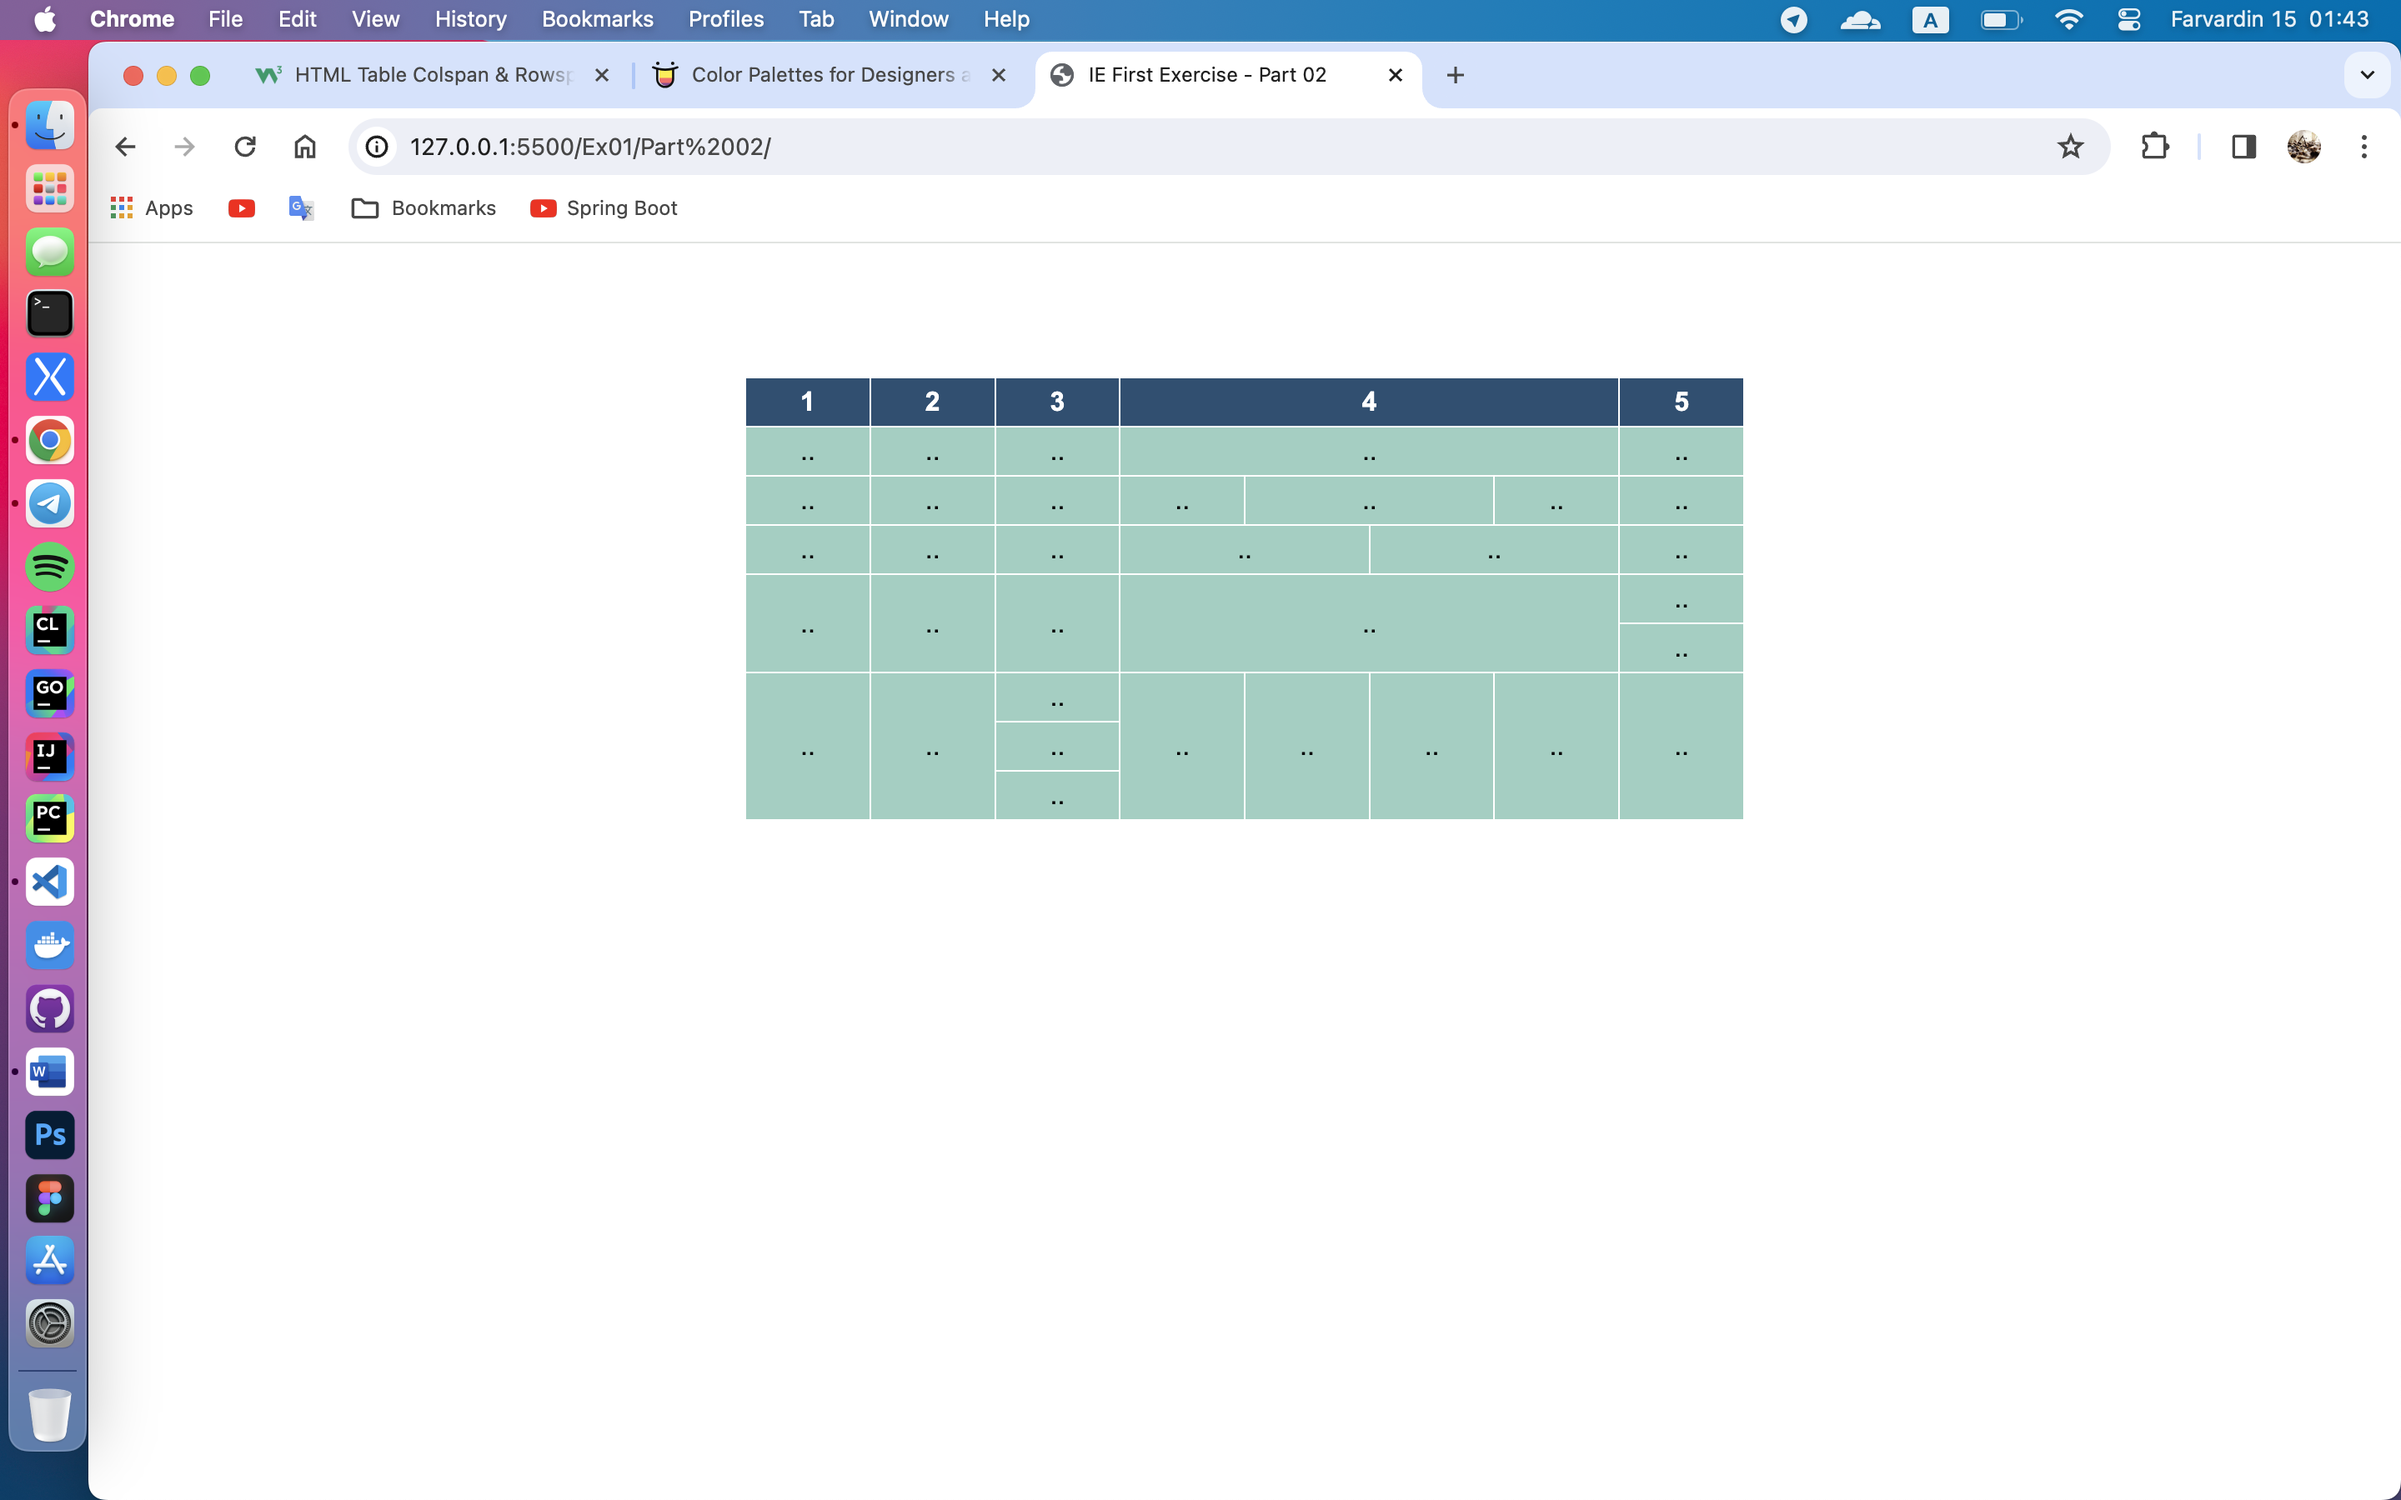
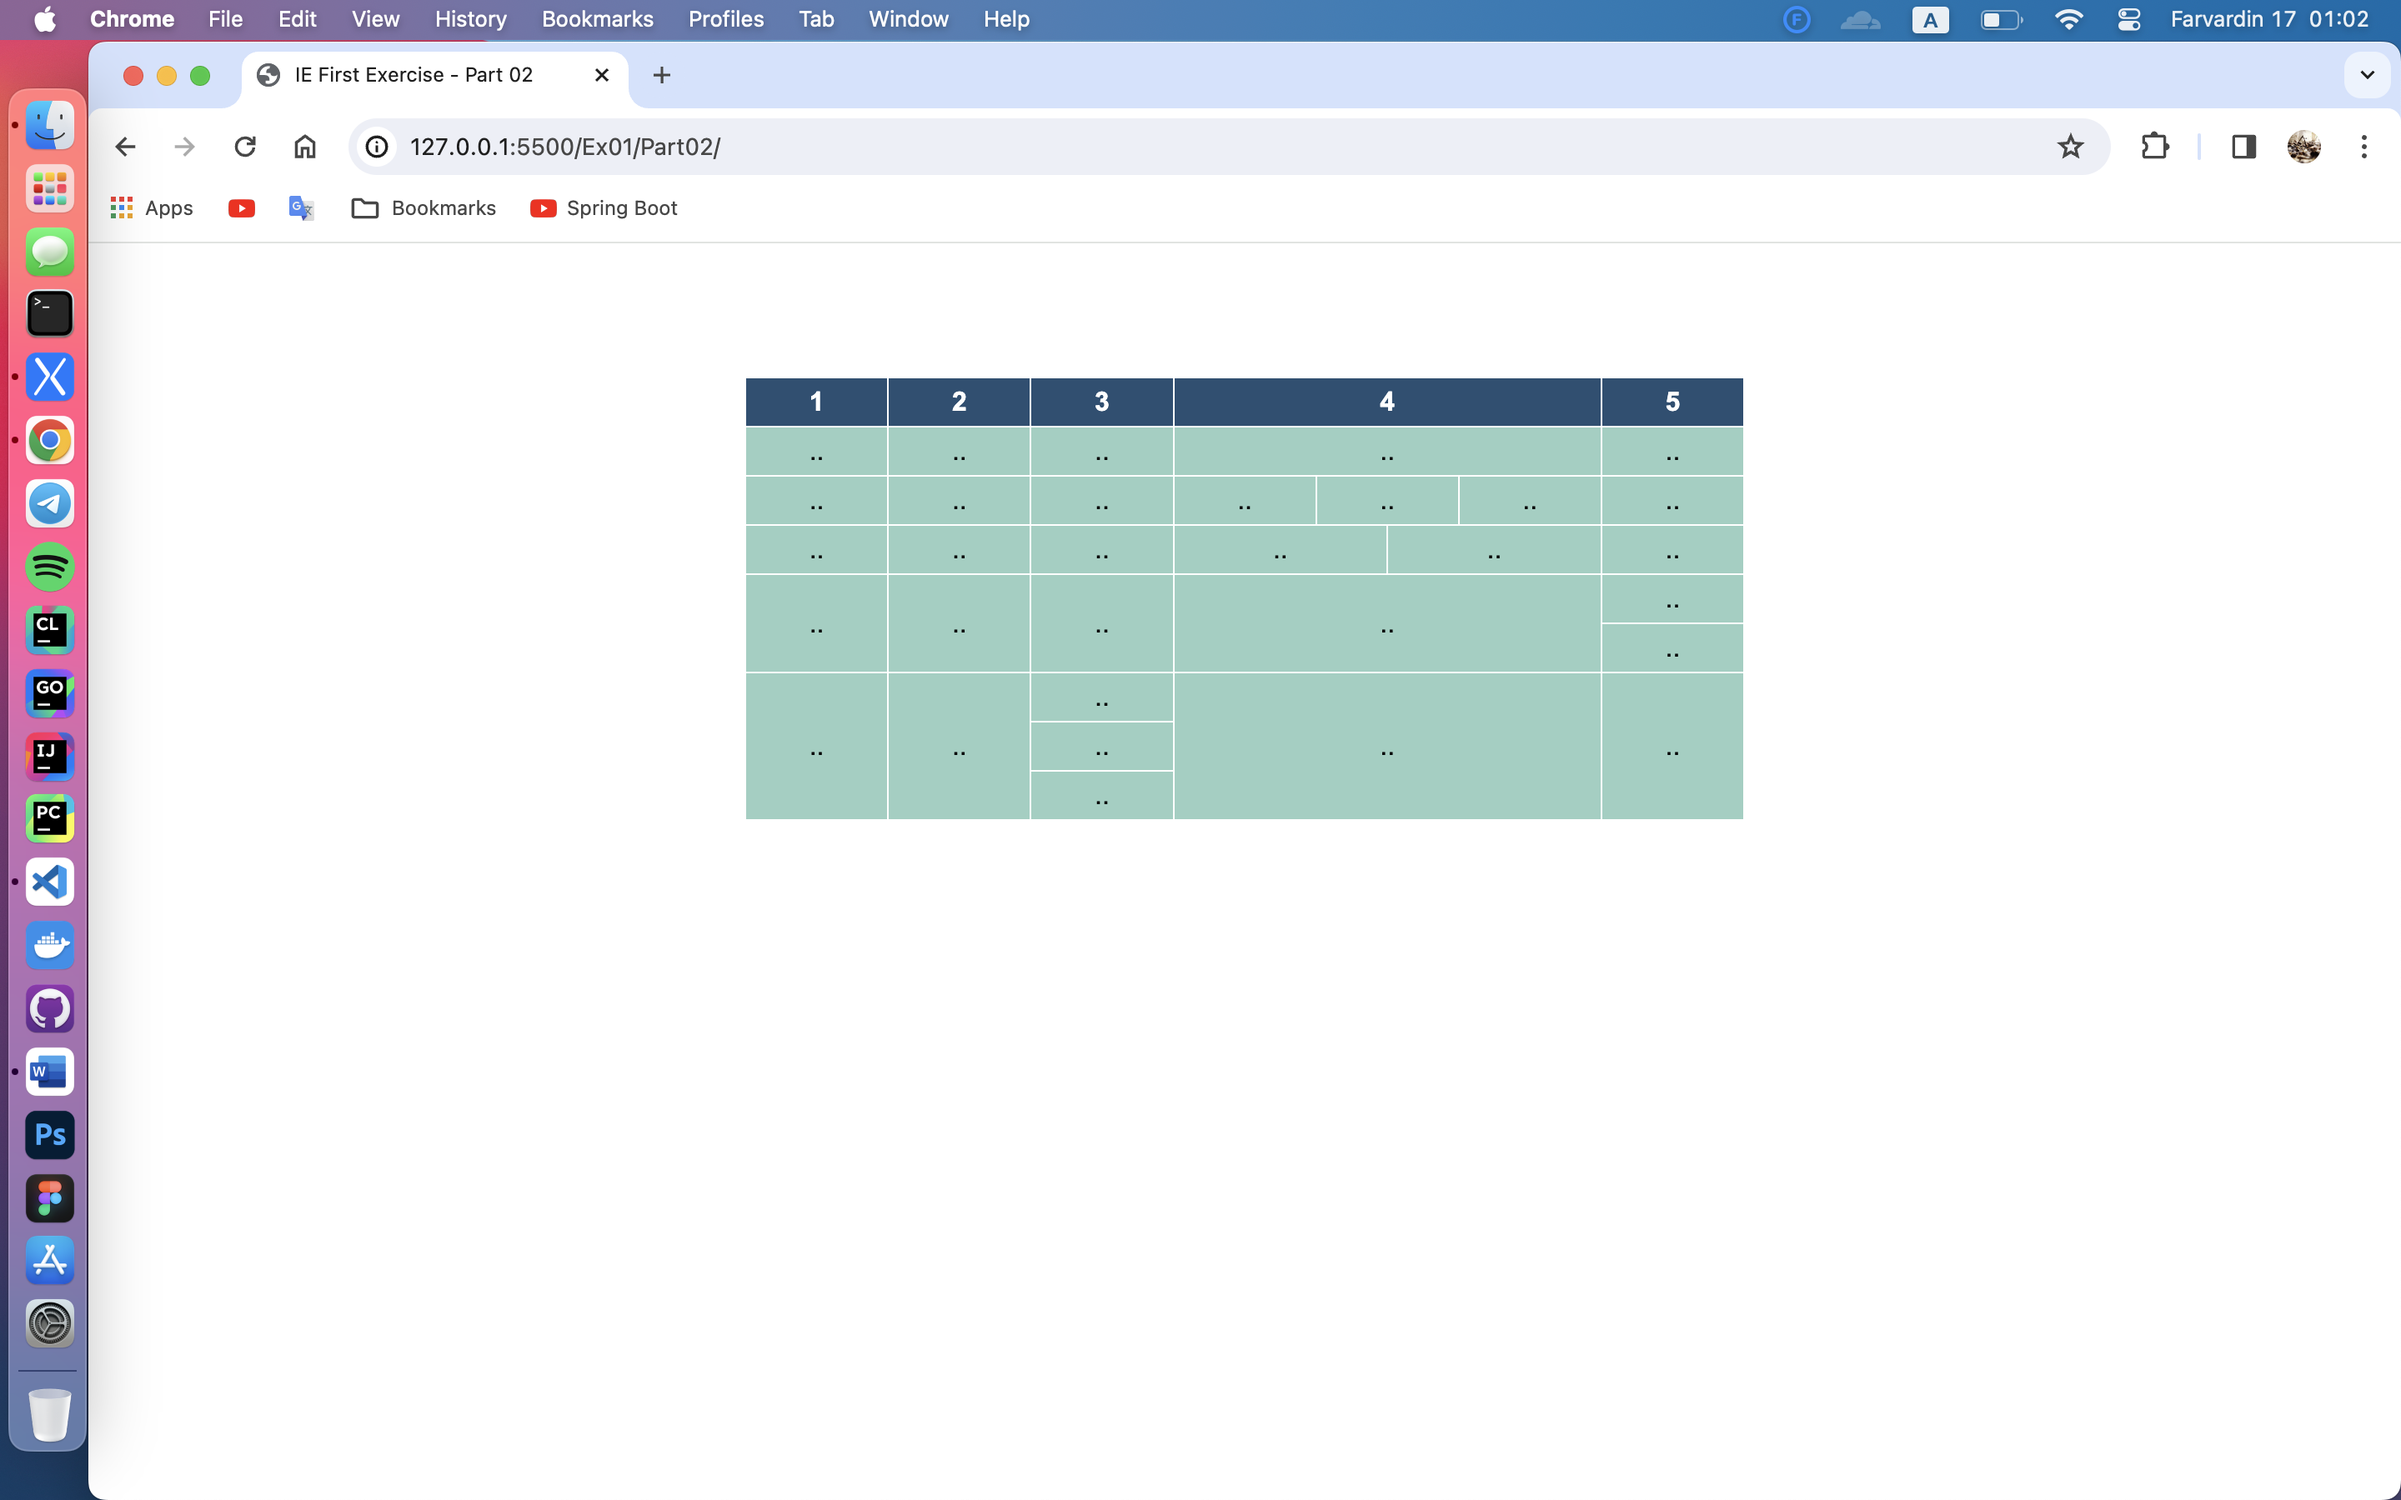
Finish Ex01

diff --git a/exercises/Ex01/Part05/index.html b/exercises/Ex01/Part05/index.html
@@ -1,0 +1,148 @@
+<!DOCTYPE html>
+<html lang="en">
+<head>
+    <meta charset="UTF-8">
+    <meta name="viewport" content="width=device-width, initial-scale=1.0">
+    <link rel="stylesheet" href="style.css">
+    <title>IE First Exercise - Part 05</title>
+</head>
+<body>
+    <div class="center title">
+        Software Engineer Job Duties
+    </div>
+    <div class="main">
+        <ol>
+            <li>
+                <span class="bold">Analysis and Design:</span>
+                <ol>
+                    <li>
+                        Requirements Gathering and Analysis:
+                        <ol>
+                            <li>Communicate with stakeholders to understand their needs.</li>
+                            <li>Document requirements clearly and concisely.</li>
+                            <li>Analyze requirements to identify dependencies and constraints.</li>
+                        </ol>
+                    </li>
+                    <li>
+                        Software Architecture Design:
+                        <ol>
+                            <li>Select appropriate architectural pattern.</li>
+                            <li>Design user interfaces.</li>
+                            <li>Design database.</li>
+                            <li>Design software components.</li>
+                        </ol>
+                    </li>
+                    <li>
+                        Test Design:
+                        <ol>
+                            <li>Design unit tests.</li>
+                            <li>Design integration tests.</li>
+                            <li>Design system tests.</li>
+                        </ol>
+                    </li>
+                </ol>
+            </li>
+            <li>
+                <span class="bold">Development:</span>
+                <ol>
+                    <li>
+                        Coding:
+                        <ol>
+                            <li>Write clean and readable code.</li>
+                            <li>Use best coding practices.</li>
+                            <li>Follow coding standards.</li>
+                        </ol>
+                    </li>
+                    <li>
+                        Testing:
+                        <ol>
+                            <li>Execute unit tests.</li>
+                            <li>Debug code.</li>
+                            <li>Fix bugs.</li>
+                        </ol>
+                    </li>
+                    <li>
+                        Deployment:
+                        <ol>
+                            <li>Deploy software to different environments.</li>
+                            <li>Monitor software performance.</li>
+                        </ol>
+                    </li>
+                </ol>
+            </li>
+            <li>
+                <span class="bold">Maintenance:</span>
+                <ol>
+                    <li>
+                        Debugging:
+                        <ol>
+                            <li>Identify and fix reported bugs.</li>
+                            <li>Update documentation.</li>
+                        </ol>
+                    </li>
+                    <li>
+                        Updating:
+                        <ol>
+                            <li>Add new features.</li>
+                            <li>Improve software performance.</li>
+                            <li>Maintain software security.</li>
+                        </ol>
+                    </li>
+                </ol>
+            </li>
+            <li>
+                <span class="bold">General Skills:</span>
+                <ol>
+                    <li>
+                        Problem-Solving Skills:
+                        <ol>
+                            <li>Analyze complex problems.</li>
+                            <li>Find creative solutions.</li>
+                            <li>Evaluate and select the best solution.</li>
+                        </ol>
+                    </li>
+                    <li>
+                        Communication Skills:
+                        <ol>
+                            <li>Communicate effectively with stakeholders.</li>
+                            <li>Provide clear and concise reports.</li>
+                            <li>Write accurate documentation.</li>
+                        </ol>
+                    </li>
+                    <li>
+                        Teamwork Skills:
+                        <ol>
+                            <li>Collaborate effectively with team members.</li>
+                            <li>Share knowledge and ideas.</li>
+                            <li>Resolve conflicts constructively.</li>
+                        </ol>
+                    </li>
+                </ol>
+            </li>
+            <li>
+                <span class="bold">Technical Skills:</span>
+                <ol>
+                    <li>
+                        Proficiency in Programming Languages:
+                        <ol>
+                            <li>Java, Python, C++, C#, PHP, etc.</li>
+                        </ol>
+                    </li>
+                    <li>
+                        Familiarity with Software Frameworks:
+                        <ol>
+                            <li>Spring, Django, Laravel, .NET, etc.</li>
+                        </ol>
+                    </li>
+                    <li>
+                        Familiarity with DevOps Tools:
+                        <ol>
+                            <li>Jenkins, GitLab, Docker, Kubernetes, etc.</li>
+                        </ol>
+                    </li>
+                </ol>
+            </li>
+        </ol>
+    </div>
+</body>
+</html>

diff --git a/exercises/Ex01/Part04/index.html b/exercises/Ex01/Part04/index.html
@@ -4,14 +4,14 @@
     <meta charset="UTF-8">
     <meta name="viewport" content="width=device-width, initial-scale=1.0">
     <link rel="stylesheet" href="style.css">
-    <title>IE First Exercise - Part 03</title>
+    <title>IE First Exercise - Part 04</title>
 </head>
 <body>
     <div class="center title">
         My TODO List:
     </div>
     <div class="main">
-        <ol>
+        <ul>
             <li>Check emails and messages and reply to them.</li>
             <li>Attend daily and scrum meetings.</li>
             <li>Review and update the status of ongoing tasks.</li>
@@ -24,7 +24,7 @@
             <li></li>
             <li></li>
             <li></li>
-        </ol>
+        </ul>
     </div>
 </body>
 </html>

diff --git a/exercises/Ex01/Part02/index.html b/exercises/Ex01/Part02/index.html
@@ -55,10 +55,7 @@
                 <td rowspan="3">..</td>
                 <td rowspan="3">..</td>
                 <td>..</td>
-                <td rowspan="3">..</td>
-                <td rowspan="3">..</td>
-                <td rowspan="3">..</td>
-                <td rowspan="3">..</td>
+                <td rowspan="3" colspan="4">..</td>
                 <td rowspan="3">..</td>
             </tr>
             <tr>

diff --git a/exercises/Ex01/Part05/style.css b/exercises/Ex01/Part05/style.css
@@ -3,12 +3,22 @@ body {
     margin-top: 30px;
 }
 
-li {
-    list-style: decimal-leading-zero;
-    margin-bottom: 10px;
+ol {
+    counter-reset: item;
+    margin-left: -20px;
 }
-li::marker {
+li { 
+    display: block;
+    margin-top: 10px;
+}
+li:before { 
+    content: counters(item, ".") ") "; 
+    counter-increment: item;
     color: #2D9596;
+}
+
+.bold {
+    font-weight: bold;
 }
 
 .title {

diff --git a/exercises/Ex01/Part04/style.css b/exercises/Ex01/Part04/style.css
@@ -4,8 +4,8 @@ body {
 }
 
 li {
-    list-style: decimal-leading-zero;
-    margin-bottom: 10px;
+    list-style-type: "✦  ";
+    margin-top: 10px;
 }
 li::marker {
     color: #2D9596;
